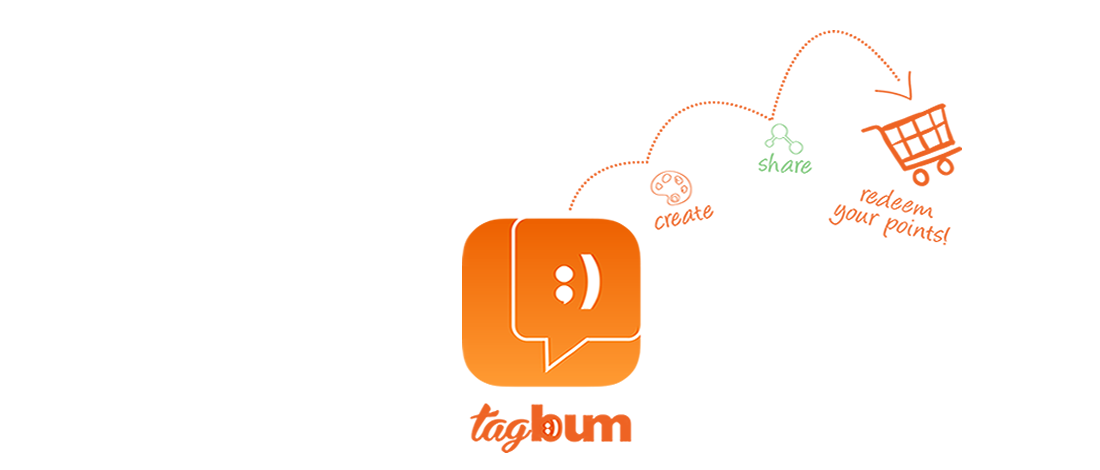
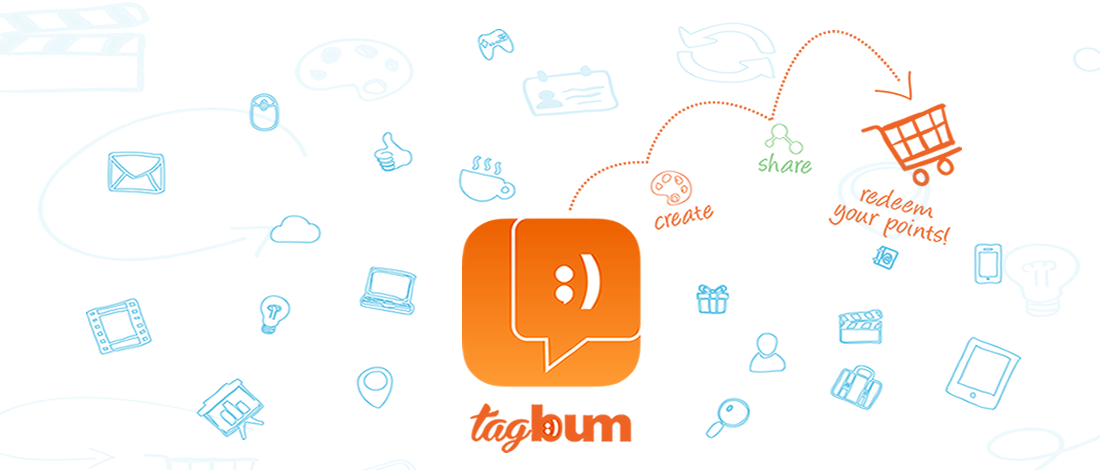
velocidad
Former-commit-id: 5b911d57ae72f268562b3b46136cd410a2c53be9

diff --git a/views/main/home.php b/views/main/home.php
@@ -73,7 +73,7 @@ if($logged){
 				$.hashExceptions = null;
 			}
 		});
-		$co.css({'background':"#fff url('css/tbum/home_what_is_it.png') no-repeat",'background-size':'100%'});
+		$co.css({'background':"#fff url('css/tbum/tbum.png') no-repeat",'background-size':'100%'});
 		$('#joinus').click(function(){
 			redirect('#signup');
 		});
@@ -82,7 +82,7 @@ if($logged){
 				$scroll=$('#keepscroll');
 				switch(hash){
 					case '#whatIsIt':
-						$co.css('background-image','url("css/tbum/home_what_is_it.png")');
+						//$co.css('background-image','url("css/tbum/tbum.png")');
 						$scroll.css('background-image',"url('css/tbum/footerkeep.png')");
 					break;
 					case '#howDoesWork':

diff --git a/templates/css_js.php b/templates/css_js.php
@@ -45,7 +45,7 @@ if(!ISLOGGED &&'localStorage' in window && window['localStorage']!==null) localS
 <?php if(!$noHash){ ?>
 	<script src="js/conhash.js.php"></script>
 <?php } ?>
-<script src="js/base.js" charset="utf-8"></script>
+
 <?php if(LOCAL){ ?>
 <script src="js/funciones.js.php" charset="utf-8"></script>
 <?php }else{ ?>

diff --git a/min/groupsConfig.php b/min/groupsConfig.php
@@ -36,7 +36,8 @@ return array(
 				'//js/guidely.js',
 				'//js/md5.js', 
 				'//js/console.js',
-				'//js/chosen.jquery.js'
+				'//js/chosen.jquery.js',
+				'//js/base.js'
 				),
      'css' => array(
      				'//css/normalize.css',
